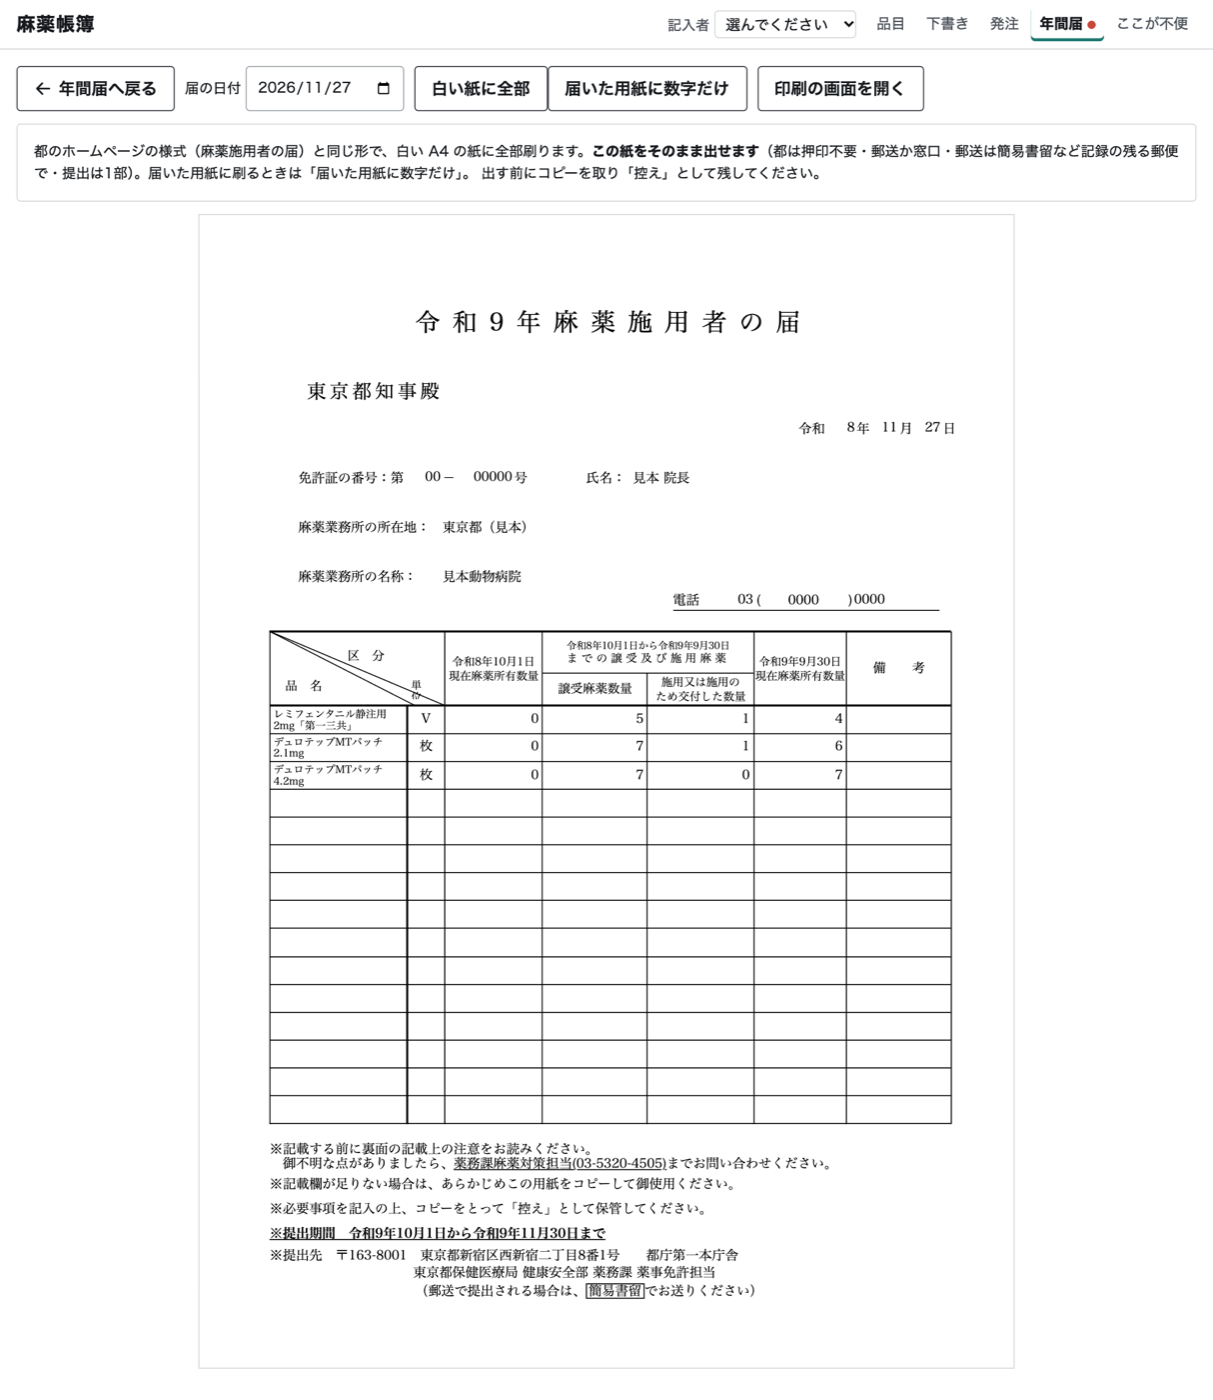
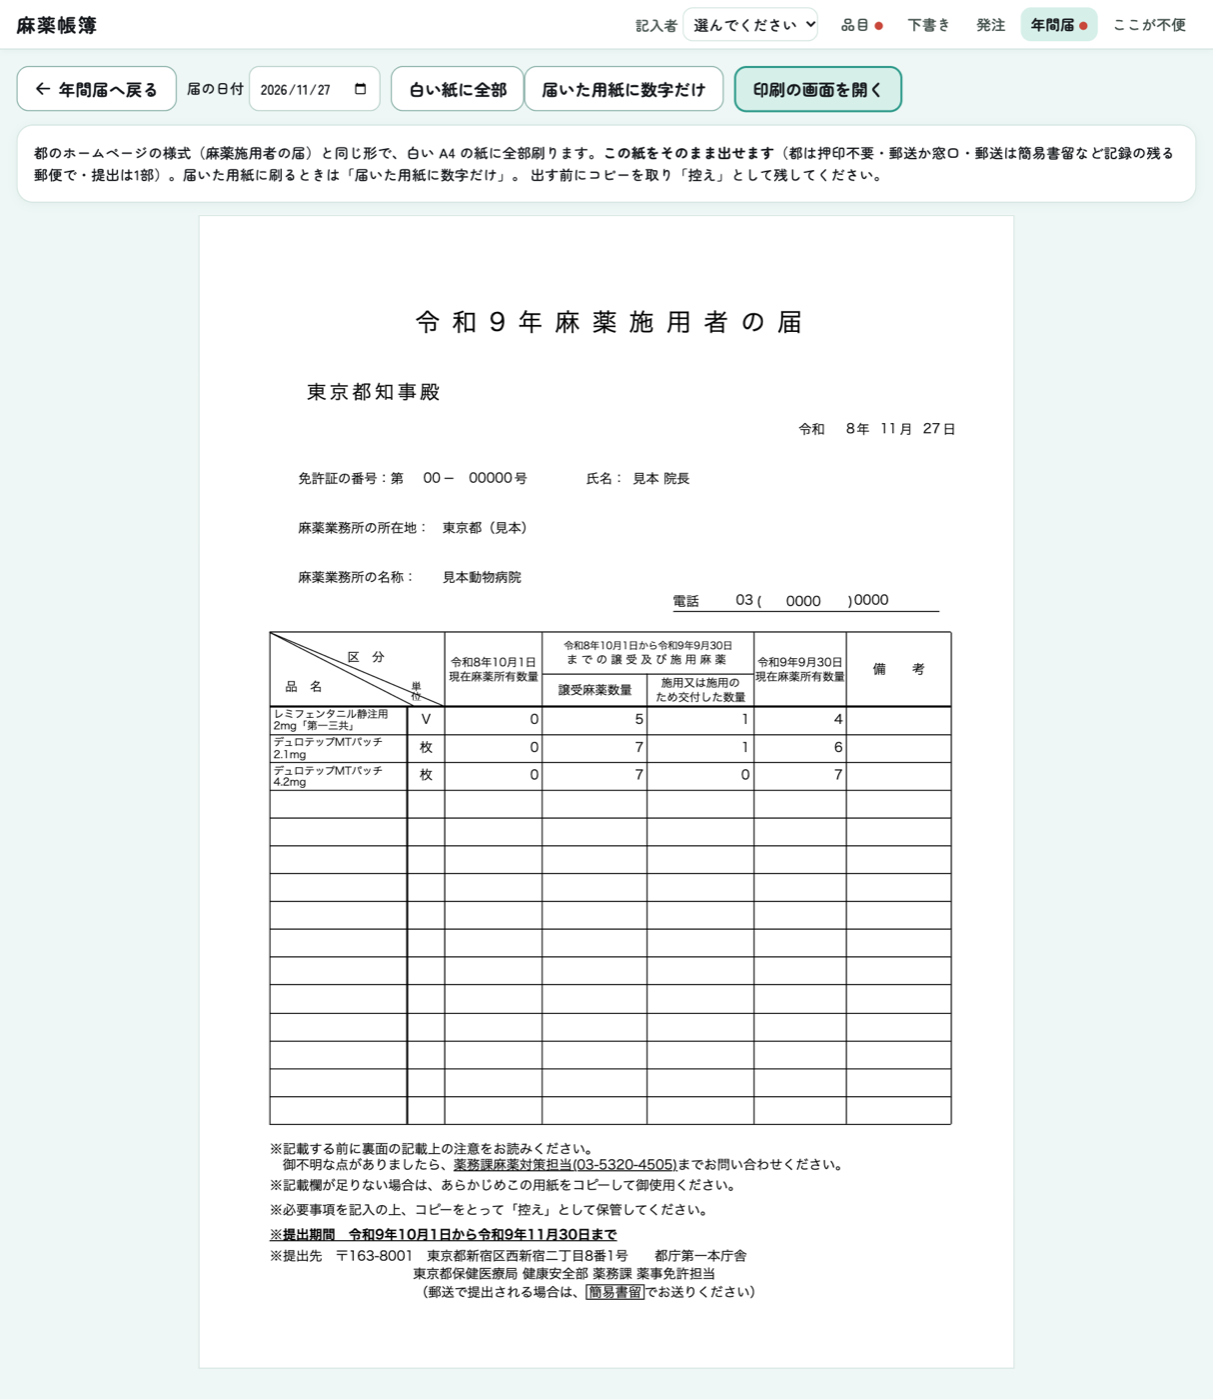
麻薬帳簿のガイド：画面の写真を新しい見た目（案C やわらかい医療・丸ゴシック）で撮り直し

diff --git a/narc-ledger.html b/narc-ledger.html
@@ -244,7 +244,7 @@
 
 <div class="imp"><b>⚠ 患者情報の取り扱い：</b>施用の行には患者の番号と名前が出ます。<b>院外で画面を開いたまま席を離れない・画面の写真をSNS等に載せない</b>でください。（このガイドの画像はすべて見本のデータで、実在の患者情報は含みません）</div>
 
-<footer>荻窪ツイン動物病院 ｜ 麻薬帳簿 使い方ガイド（2026年11月27日版）<br>使いにくい点は右上の「ここが不便」から送れます（不明点は院長まで）</footer>
+<footer>荻窪ツイン動物病院 ｜ 麻薬帳簿 使い方ガイド（2026年11月27日版・見た目＝案C）<br>使いにくい点は右上の「ここが不便」から送れます（不明点は院長まで）</footer>
 </div>
 </body>
 </html>
